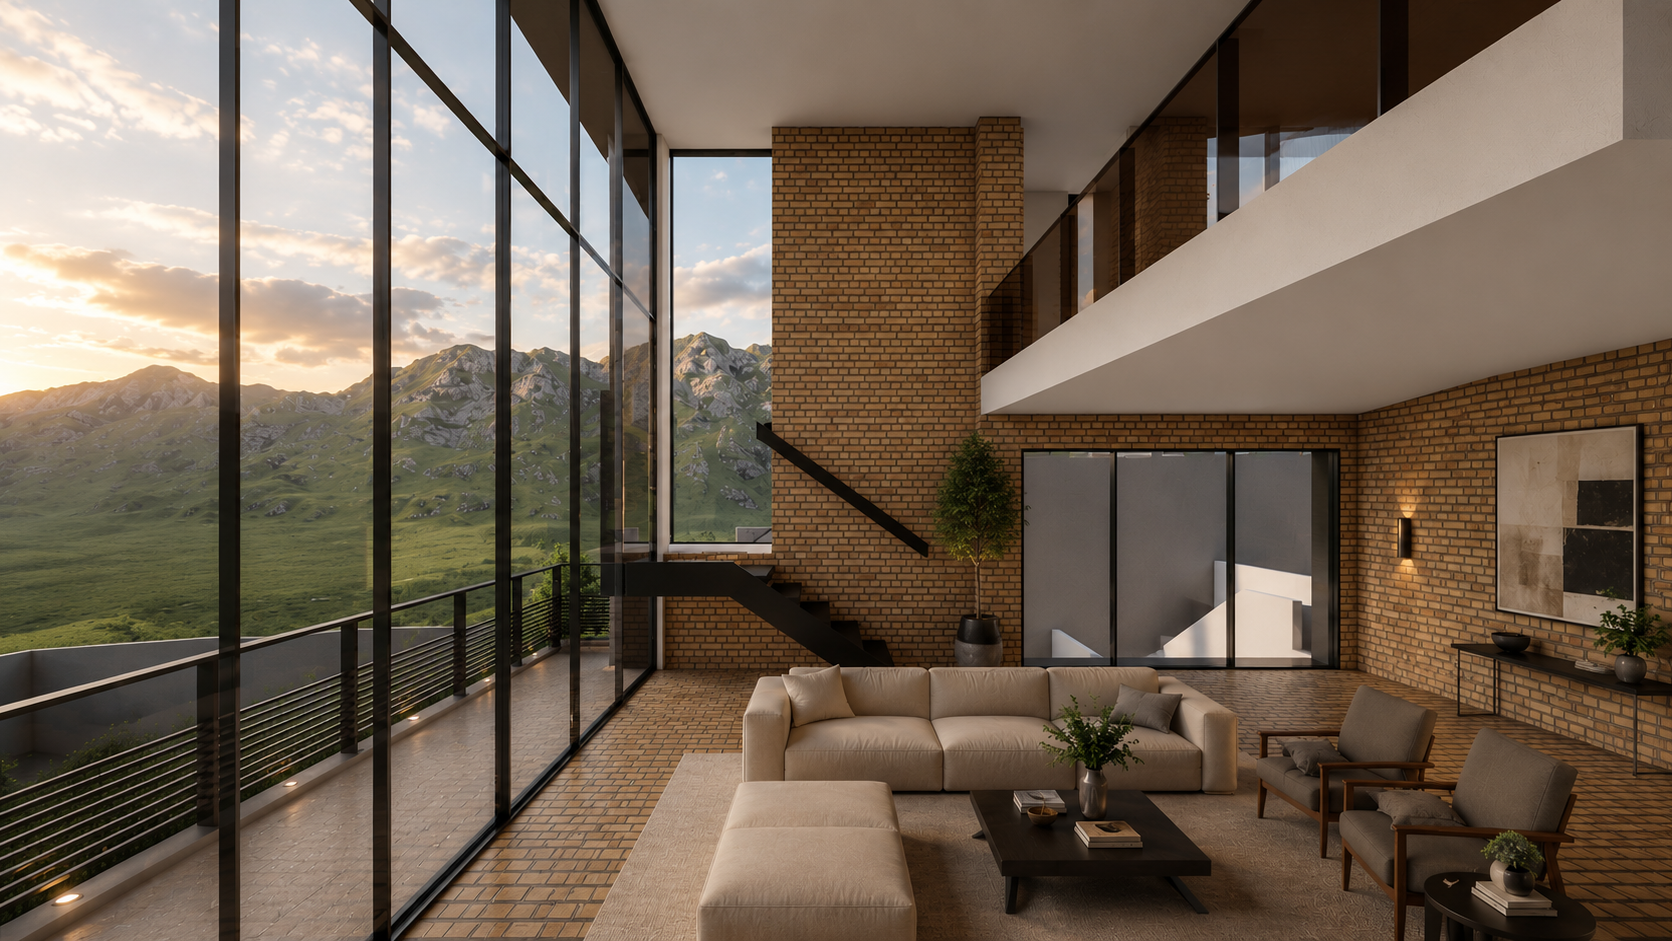
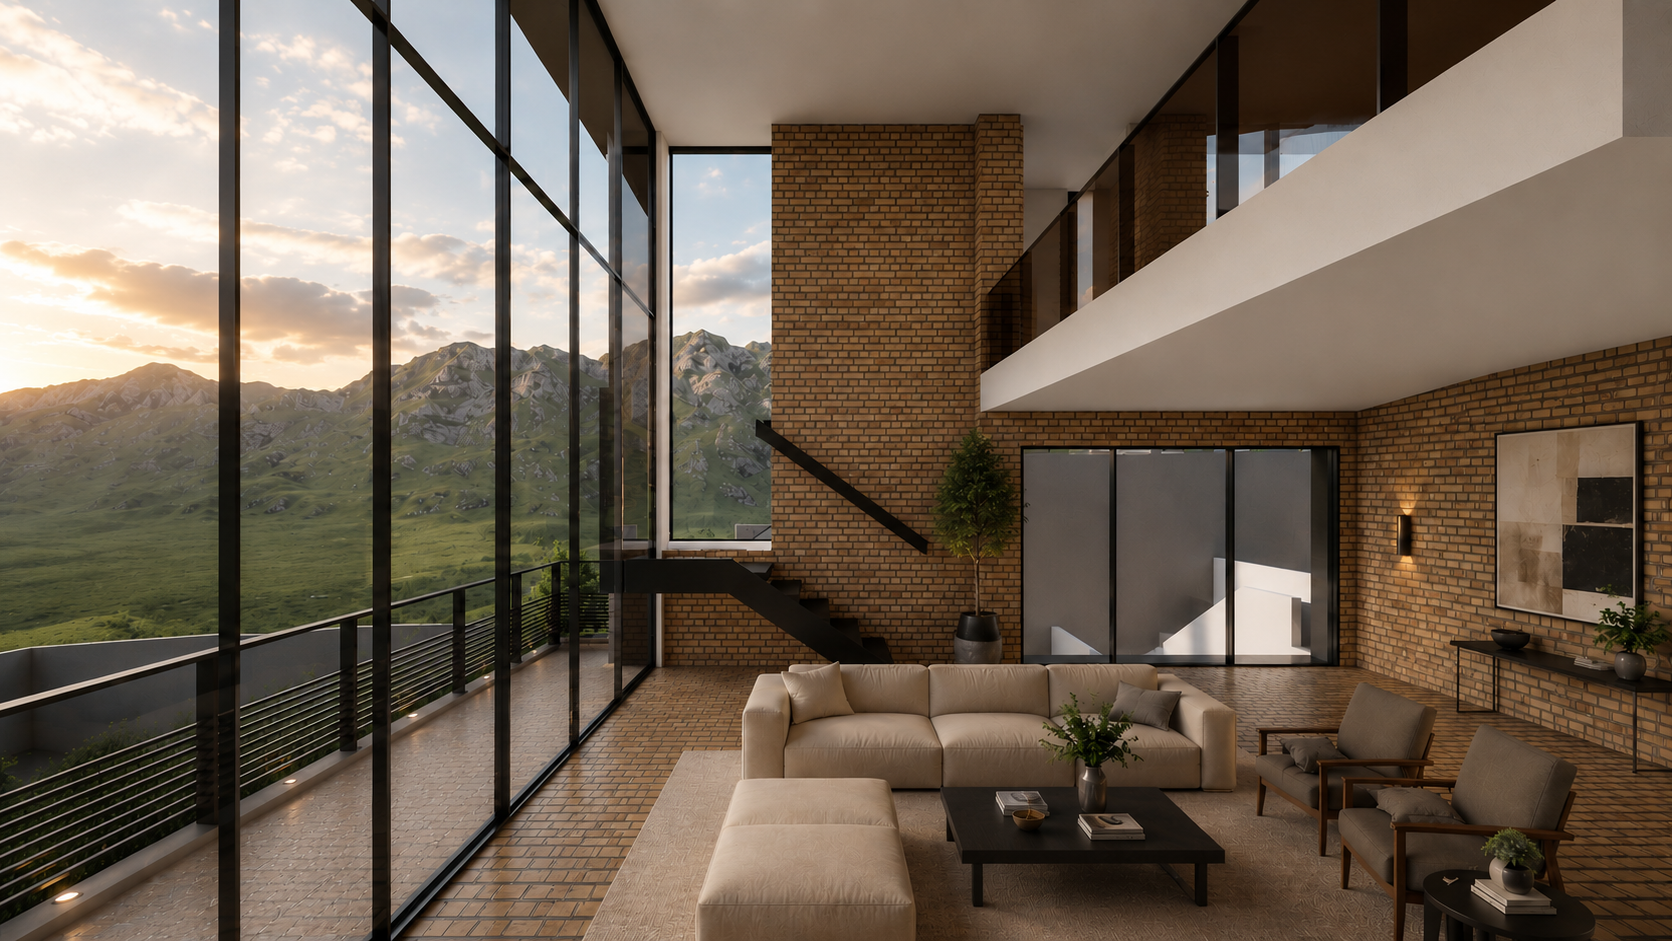
update all the changes

diff --git a/projects/villaframe.html b/projects/villaframe.html
@@ -1,0 +1,94 @@
+<!DOCTYPE html>
+<html lang="en">
+<head>
+  <meta charset="UTF-8">
+  <meta name="viewport" content="width=device-width, initial-scale=1.0">
+  <title>Villa Frame | ra. studio</title>
+  <link rel="stylesheet" href="../style.css">
+</head>
+
+<body>
+
+<header>
+  <div class="logo">
+    <a href="../index.html">
+      <img src="../images/logo.png" alt="ra. studio logo">
+    </a>
+  </div>
+
+  <nav>
+    <a href="../architecture.html">Projects</a>
+    <a href="../index.html#studio">Studio</a>
+    <a href="../index.html#contact">Contact</a>
+  </nav>
+</header>
+
+<section class="project-page-hero">
+  <p>Residential Architecture</p>
+  <h1>Villa Frame</h1>
+</section>
+
+<section class="project-cover">
+  <img src="../images/villaframe-01.png" alt="Villa Frame">
+</section>
+
+<section class="project-details">
+  <div>
+    <p>Location</p>
+    <h3>Sadra, Iran</h3>
+  </div>
+
+  <div>
+    <p>Year</p>
+    <h3>2021</h3>
+  </div>
+
+  <div>
+    <p>Scope</p>
+    <h3>Architecture</h3>
+  </div>
+
+      <div>
+    <p>Collaboration</p>
+    <h3>Zahra Rajabi</h3>
+  </div>
+
+      <div>
+    <p>Commissioned by</p>
+    <h3>Zi Design Studio</h3>
+</section>
+
+<section class="project-description">
+  <p>
+Villa Frame is conceived around the idea of framing space, light, and landscape through a bold architectural gesture. A monumental brick volume encloses a transparent double-height living space, creating a striking contrast between solidity and openness. Expansive glazing fills the interior with natural daylight while establishing uninterrupted visual connections between the home's different levels and the surrounding gardens.
+
+The architecture is defined by a restrained palette of warm brick, crisp white rendered surfaces, and structural glass. These timeless materials highlight the interplay between mass and void, reinforcing the clarity of the composition while allowing light and shadow to animate the façade throughout the day. Carefully positioned openings balance privacy with openness, creating framed views that connect the interior to the landscape beyond.
+
+At the heart of the residence, the double-height atrium serves as both a visual and spatial anchor. A sculptural staircase strengthens the vertical connection between floors, while landscaped courtyards and planted terraces introduce greenery deep into the architecture, softening the transition between inside and outside. Through its refined proportions, timeless material palette, and emphasis on light, transparency, and framed space, Villa Frame presents a contemporary home where architecture becomes both a structure and a lens through which its surroundings are experienced.
+
+  </p>
+</section>
+
+<section class="project-gallery">
+  <img src="../images/villaframe-02.png" alt="Villa Frame">
+  <img src="../images/villaframe-03.png" alt="Villa Frame">
+  <img src="../images/villaframe-04.png" alt="Villa Frame">
+  <img src="../images/villaframe-05.png" alt="Villa Frame">
+  <img src="../images/villaframe-06.png" alt="Villa Frame">
+  <img src="../images/villaframe-07.png" alt="Villa Frame">
+  <img src="../images/villaframe-08.png" alt="Villa Frame">
+  <img src="../images/villaframe-09.png" alt="Villa Frame">
+
+</section>
+
+<section class="next-project">
+  <a href="../architecture.html">Back to Architecture</a>
+</section>
+
+</body>
+</html>
+<head>
+  ...
+  <link rel="icon" type="image/png" href="../images/favicon.png">
+  <link rel="stylesheet" href="../style.css">
+</head>

diff --git a/architecture.html b/architecture.html
@@ -91,6 +91,18 @@
     </a>
   </article>
 
+      <article class="portfolio-card">
+    <a href="projects/villaframe.html">
+      <img src="images/villaframe-01.png" alt="Villa Frame">
+      <h2>Villa Frame</h2>
+      <p>Residential Architecture</p>
+      <p class="project-meta">Sadra, Iran / 2021</p>
+      <p class="project-summary">
+        A contemporary residence where solid brick volumes contrast with expansive glazing to create light-filled, open living spaces.
+      </p>
+    </a>
+  </article>
+
 </section>
 
 </body>
